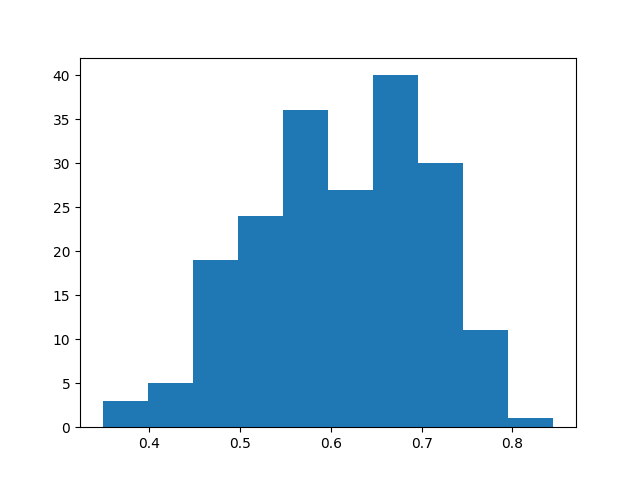
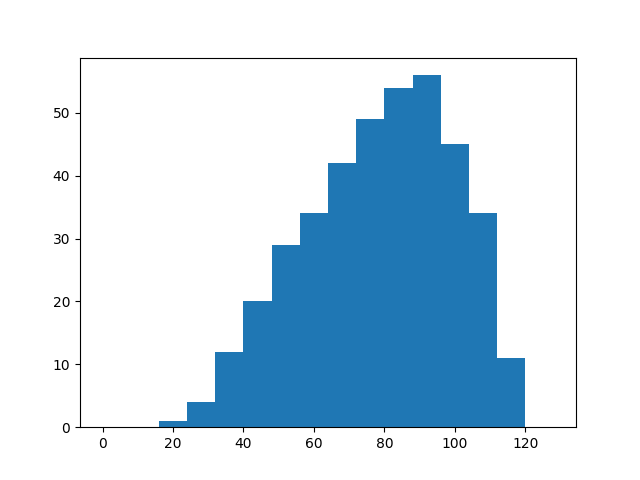
update

diff --git a/Train/metric_convert.py b/Train/metric_convert.py
@@ -6,6 +6,7 @@ import csv
 import time
 import logging
 import numpy as np
+import pandas as pd
 import torch
 import random
 import argparse
@@ -231,15 +232,19 @@ class convert_resnet:
                     # wandb.log({"acc1": acc1[0], "acc5": acc5[0], "pass_acc": p_acc, "pass_ratio": p_ratio})
                     progress.display(i)
 
+            cnts = plt.hist(self.hist_data, bins=16, range=(0,self.batch_size))
+            print(cnts[0])
+
             if self.last_exit == None:
                 with open('./moveon_dict/resnet_exit_e{}_b{}.pkl'.format(self.split_point, self.batch_size), "wb") as f:
                     pickle.dump(moveon_dict, f)
+                plt.savefig('./moveon_dict/resnet_hist_data_e{}_b{}.png'.format(self.split_point, self.batch_size))
             else:
                 with open('./moveon_dict/resnet_exit_e{}_l{}_b{}.pkl'.format(self.split_point, self.last_exit, self.batch_size), "wb") as f:
                     pickle.dump(moveon_dict, f)
+                plt.savefig('./moveon_dict/resnet_hist_data_e{}_l{}_b{}.png'.format(self.split_point, self.last_exit, self.batch_size))
 
-            plt.hist(self.hist_data)
-            plt.savefig("./hist_data.png")
+            plt.close()
             print(' * Acc@1 {top1.avg:.3f} Acc@5 {top5.avg:.3f}'
                 .format(top1=top1, top5=top5))
 
@@ -275,8 +280,8 @@ class convert_resnet:
 
             if moveon_cnt != 0:
                 moveon_acc = moveon_correct_cnt.float().mul_(100.0 / moveon_cnt)
-                tmp = moveon_cnt/sum(last_moveon_list)
-                self.hist_data.append(tmp.cpu().item())
+                # tmp = moveon_cnt/sum(last_moveon_list)
+                self.hist_data.append(moveon_cnt.cpu().item())
             else:
                 moveon_acc = torch.tensor(0.0)
                 self.hist_data.append(0)
@@ -359,8 +364,8 @@ class convert_posenet:
         self.net = self.net.cuda()
         self.net.eval()
 
-        logger, final_output_dir, tb_log_dir = create_logger(
-        config, "/home/slzhang/projects/ETBA/Train/pose_estimation/experiments/mpii/resnet101/384x384_d256x3_adam_lr1e-3.yaml", 'train')
+        # logger, final_output_dir, tb_log_dir = create_logger(
+        # config, "/home/slzhang/projects/ETBA/Train/pose_estimation/experiments/mpii/resnet101/384x384_d256x3_adam_lr1e-3.yaml", 'train')
 
         gpus = [int(i) for i in config.GPUS.split(',')]
         self.net = torch.nn.DataParallel(self.net, device_ids=gpus).cuda()
@@ -389,11 +394,11 @@ class convert_posenet:
             use_target_weight=config.LOSS.USE_TARGET_WEIGHT
         ).cuda()
 
-        acc_pass, acc_moveon, moveon_ratio, metric_avg = self.validate_posenet(config, final_output_dir)
+        acc_pass, acc_moveon, moveon_ratio, metric_avg = self.validate_posenet(config)
 
         return acc_pass, acc_moveon, moveon_ratio, metric_avg
 
-    def validate_posenet(self, config, output_dir, writer_dict=None):
+    def validate_posenet(self, config, output_dir=None, writer_dict=None):
         batch_time = AverageMeter('batch_time', ':6.2f')
         losses = AverageMeter('losses', ':6.2f')
         acc = AverageMeter('acc', ':6.2f')
@@ -543,26 +548,31 @@ class convert_posenet:
                     # prefix = '{}_{}'.format(os.path.join(output_dir, 'val'), i)
                     # save_debug_images(config, input, meta, target, pred*4, exit_output,
                     #                   prefix)
+
+            cnts = plt.hist(hist_data, bins=16, range=(0,self.batch_size))
+            print(cnts[0])
+
             if self.last_exit == None:
                 with open('./moveon_dict/posenet_exit_e{}_b{}.pkl'.format(self.split_point, self.batch_size), "wb") as f:
                     pickle.dump(moveon_dict, f)
+                plt.savefig('./moveon_dict/posenet_hist_data_e{}_b{}.png'.format(self.split_point, self.batch_size))
             else:
                 with open('./moveon_dict/posenet_exit_e{}_l{}_b{}.pkl'.format(self.split_point, self.last_exit, self.batch_size), "wb") as f:
                     pickle.dump(moveon_dict, f)
+                plt.savefig('./moveon_dict/posenet_hist_data_e{}_l{}_b{}.png'.format(self.split_point, self.last_exit, self.batch_size))
 
-            plt.hist(hist_data, bins=50)
-            plt.savefig("./hist_data.png")
+            plt.close()
 
-            name_values, perf_indicator = self.valid_dataset.evaluate(
-                config, all_preds, output_dir, all_boxes, image_path,
-                filenames, imgnums)
+            # name_values, perf_indicator = self.valid_dataset.evaluate(
+            #     config, all_preds, output_dir, all_boxes, image_path,
+            #     filenames, imgnums)
 
-            _, full_arch_name = get_model_name(config)
-            if isinstance(name_values, list):
-                for name_value in name_values:
-                    _print_name_value(name_value, full_arch_name)
-            else:
-                _print_name_value(name_values, full_arch_name)
+            # _, full_arch_name = get_model_name(config)
+            # if isinstance(name_values, list):
+            #     for name_value in name_values:
+            #         _print_name_value(name_value, full_arch_name)
+            # else:
+            #     _print_name_value(name_values, full_arch_name)
 
         return acc_pass.avg, acc_moveon.avg, moveon_ratio.avg, acc.avg
 
@@ -1334,24 +1344,56 @@ class ProgressMeter(object):
 
 
 def grid_search(task_name, split_point):
-    if task_name == 'imagenet':
-        net_wth_eehead, net_wth_finalhead = convert_resnet.load_resnet(split_point)
-        for p_thres in np.arange(0, 1.1, 0.1):
-            metric_eehead, metric_finalhead, moveon_ratio, metric_avg = convert_resnet.eval_resnet(net_wth_eehead, net_wth_finalhead, p_thres)
-            with open('/home/slzhang/projects/ETBA/Train/conversion_results/imagenet_results_{}.csv'.format(split_point), 'a+') as f:
+    print('Grid searcing...')
+    if task_name == 'resnet':
+        print('Grid searcing for resnet...')
+        with open('/home/slzhang/projects/ETBA/Train/conversion_results/resnet_results_{}.csv'.format(split_point), 'a+') as f:
+            writer = csv.writer(f)
+            writer.writerow(['p_thres', 'metric_eehead', 'metric_finalhead', 'moveon_ratio', 'metric_avg'])
+
+        inst = convert_resnet(split_point=split_point, batch_size=128, last_exit=None)
+        net_wth_eehead, net_wth_finalhead = inst.load_resnet()
+
+        for p_thres in np.arange(0.9, 1.0, 0.1):
+            inst.p_thres = p_thres
+            metric_eehead, metric_finalhead, moveon_ratio, metric_avg = inst.eval_resnet(net_wth_eehead, net_wth_finalhead)
+            print('p_thres: ' + str(p_thres) + '  moveon_ratio: ' + str(moveon_ratio) +'  metric_avg: ' + str(metric_avg))
+            with open('/home/slzhang/projects/ETBA/Train/conversion_results/resnet_results_{}.csv'.format(split_point), 'a+') as f:
                 writer = csv.writer(f)
                 writer.writerow([p_thres, metric_eehead, metric_finalhead, moveon_ratio, metric_avg])
 
+        result = pd.read_csv('/home/slzhang/projects/ETBA/Train/conversion_results/resnet_results_{}.csv'.format(split_point))
+        result_satisfied = result[result['metric_avg']>76]
+        opt_p_thres = result_satisfied[result_satisfied['moveon_ratio'] == result_satisfied['moveon_ratio'].min()]['p_thres']
+
+        return opt_p_thres[0]
+
     elif task_name == 'posenet':
-        net = convert_posenet.load_posenet(split_point)
+        print('Grid searcing for posenet...')
+        with open('/home/slzhang/projects/ETBA/Train/conversion_results/posenet_results_{}.csv'.format(split_point), 'a+') as f:
+            writer = csv.writer(f)
+            writer.writerow(['p_thres', 'n_thres', 'metric_eehead', 'metric_finalhead', 'moveon_ratio', 'metric_avg'])
+
+        inst = convert_posenet(split_point=6, batch_size=128, last_exit=None)
         for p_thres in np.arange(0.6, 0.84, 0.02):
             for n_thres in [5, 10, 15, 20, 30, 50]:
-                moveon_ratio, metric_avg = convert_posenet.eval_posenet(net, p_thres, n_thres)
+                inst.p_thres = p_thres
+                inst.n_thres = n_thres
+                acc_pass, acc_moveon, moveon_ratio, metric_avg = inst.eval_posenet()
+                print('p_thres: ' + str(p_thres) + '  n_thres: ' + str(n_thres) + '  moveon_ratio: ' + str(moveon_ratio) +'  metric_avg: ' + str(metric_avg))
                 with open('/home/slzhang/projects/ETBA/Train/conversion_results/posenet_results_{}.csv'.format(split_point), 'a+') as f:
                     writer = csv.writer(f)
-                    writer.writerow([p_thres, n_thres, moveon_ratio, metric_avg])
+                    writer.writerow([p_thres, n_thres, acc_pass, acc_moveon, moveon_ratio, metric_avg])
+        
+        result = pd.read_csv('/home/slzhang/projects/ETBA/Train/conversion_results/posenet_results_{}.csv'.format(split_point))
+        result_satisfied = result[result['metric_avg']>85]
+        opt_p_thres = result_satisfied[result_satisfied['moveon_ratio'] == result_satisfied['moveon_ratio'].min()]['p_thres']
+        opt_n_thres = result_satisfied[result_satisfied['moveon_ratio'] == result_satisfied['moveon_ratio'].min()]['n_thres']
+
+        return opt_p_thres[0], opt_n_thres[0]
 
     elif task_name == 'openseg':
+        print('Grid searcing for openseg...')
         net = convert_openseg.load_posenet(split_point)
         for p_thres in np.arange(1, 10, 1):
             for n_thres in [100000, 200000, 500000, 1000000]:
@@ -1374,17 +1416,26 @@ def grid_search(task_name, split_point):
         pass
 
 if __name__ == '__main__':
-    task = 'resnet'
+    task = 'posenet'
     mode = 'test'
 
     if mode == 'test':
         if task == 'resnet':
-            inst = convert_resnet(split_point=26, batch_size=256, last_exit=12)
+            split_point = 15
+            opt_p_thres = grid_search(task, split_point)
+            inst = convert_resnet(split_point=split_point, batch_size=128, last_exit=None)
+            inst.p_thres = opt_p_thres
             net_wth_eehead, net_wth_finalhead = inst.load_resnet()
             inst.eval_resnet(net_wth_eehead, net_wth_finalhead)
-        if task == 'posenet':
-            inst = convert_posenet(split_point=6, batch_size=128, last_exit=None)
+
+        elif task == 'posenet':
+            split_point = 15
+            opt_p_thres, opt_n_thres = grid_search(task, split_point)
+            inst = convert_posenet(split_point=split_point, batch_size=128, last_exit=None)
+            inst.p_thres = opt_p_thres
+            inst.n_thres = opt_n_thres
             inst.eval_posenet()
+
         elif task == 'openseg':
             net = convert_openseg.load_openseg(20)
             convert_openseg.eval_openseg(net, 8, 0)
@@ -1397,7 +1448,6 @@ if __name__ == '__main__':
             inst.load_Wav2Vec2()
     # TODO: For bert, run "python metric_convert.py --output_dir /home/slzhang/projects/ETBA/Train/bert_train/models/tmp --split_point 5 --model_name_or_path bert-base-cased --task_name mrpc --do_eval
 
-    # grid_search(task, 14)
 
 
 
